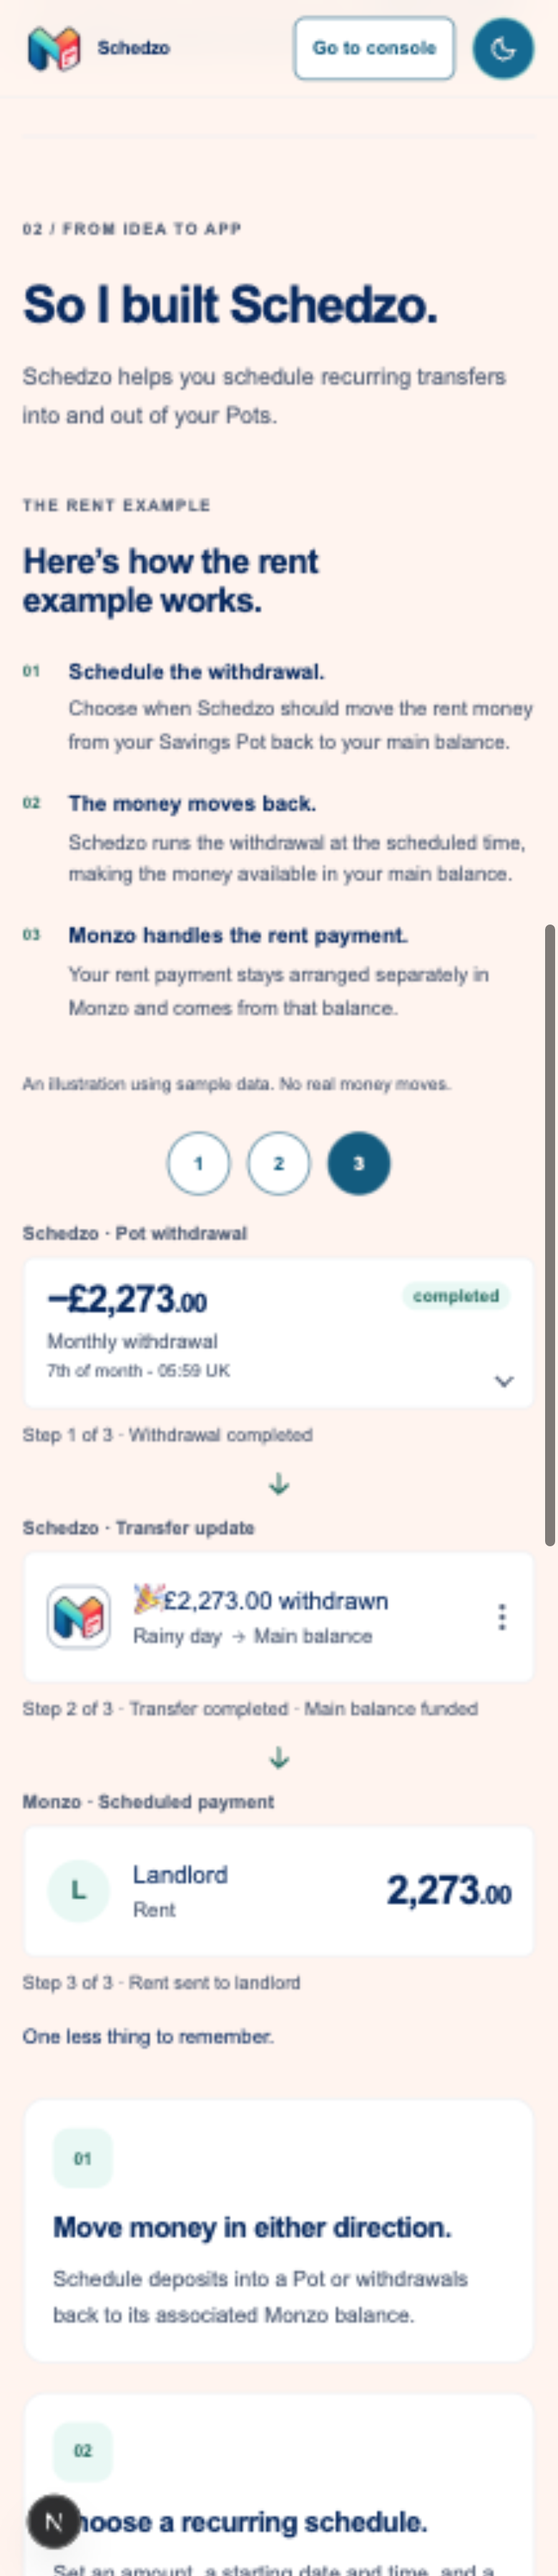
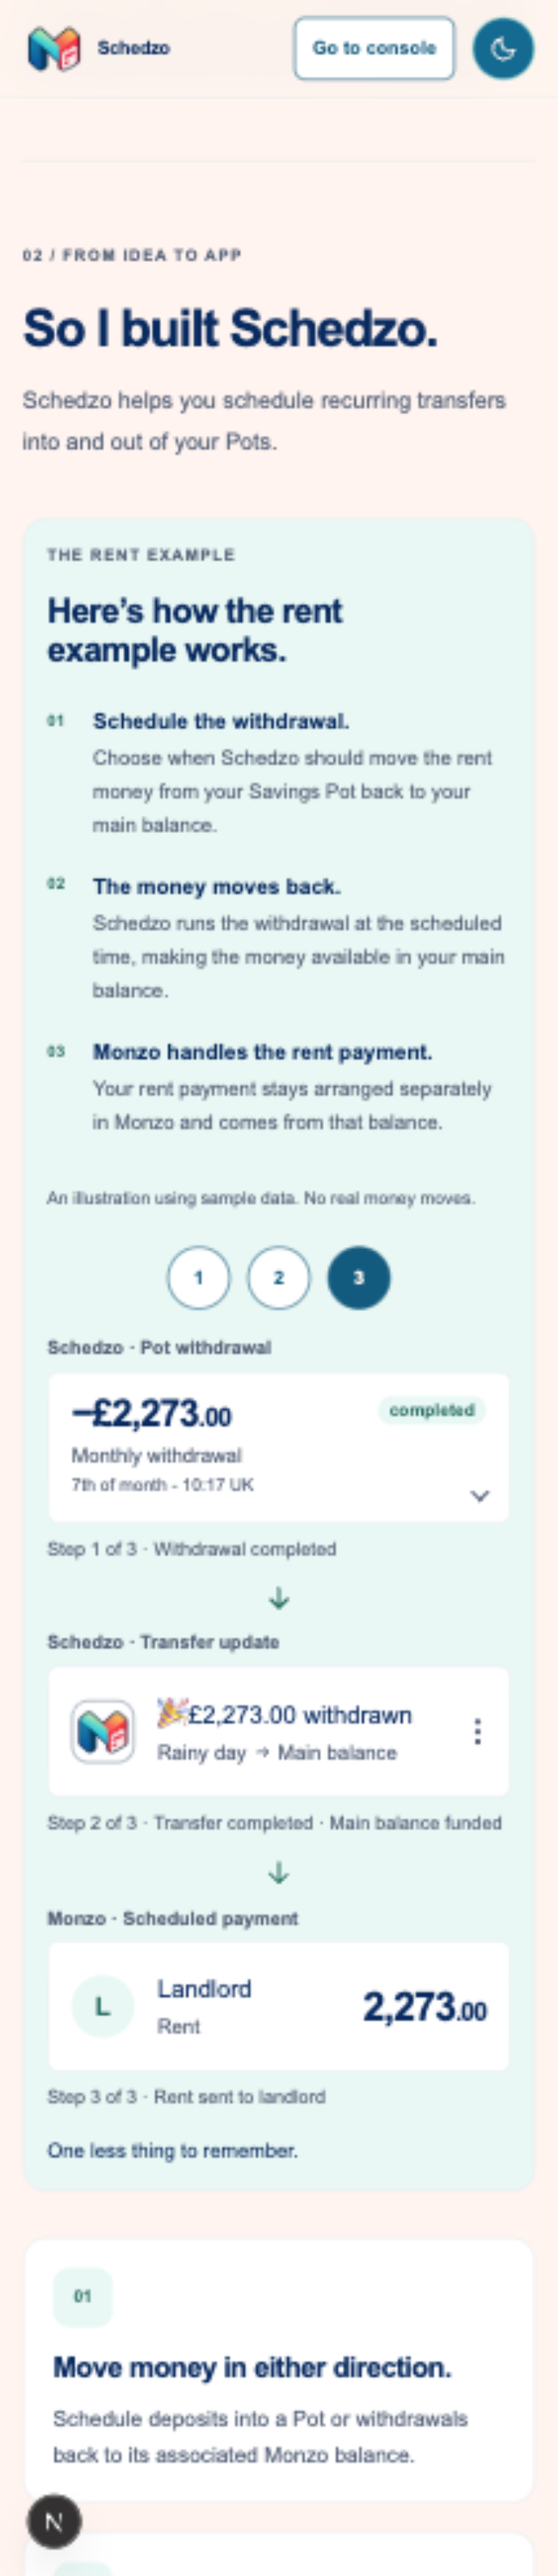
fix: preserve payment example panel on mobile

diff --git a/components/landing/payment-flow-example/payment-flow-example.module.css b/components/landing/payment-flow-example/payment-flow-example.module.css
@@ -99,10 +99,7 @@
 
 @container payment-flow-example (max-width: 560px) {
   .example {
-    padding: 0;
-    border: 0;
-    border-radius: 0;
-    background: transparent;
+    padding: var(--space-4);
   }
 
   .summary { gap: var(--space-5); }
@@ -154,5 +151,5 @@
 
 /* Retain the panel while leaving enough room for the amount in a narrow card. */
 @container payment-flow-example (max-width: 320px) {
-  .compact { padding-inline: var(--space-1); }
+  .example { padding-inline: var(--space-1); }
 }

diff --git a/.github/pr-evidence/16/README.md b/.github/pr-evidence/16/README.md
@@ -59,3 +59,16 @@ These files are review evidence, not application assets.
   remains visible without reveal state attributes.
 - `pnpm test` passed all 263 tests in 44 files; `pnpm typecheck`, `pnpm build`,
   and `git diff --check` also passed after the component change.
+
+## Mobile payment-example panel
+
+- The landing page keeps the mint panel, border, and rounded corners at mobile
+  widths. Panel padding reduces to 16px, with 4px horizontal padding when the
+  example container is 320px wide or less so amounts keep enough room.
+- Refreshed `updated-landing-solution-mobile.png` at 390 × 1800 CSS pixels
+  (780 × 3600 PNG), matching the PR-base image dimensions, light theme,
+  completed payment-flow stage, and the “So I built Schedzo” section.
+- Checked completed flows at 320, 390, 560, 768, and 1280px in light and dark
+  themes, plus the pending flow at 320px. No page or component overflow.
+  The article retains its existing panel padding at 320 and 390px.
+- All 263 tests in 44 files, typecheck, build, and whitespace checks passed.
